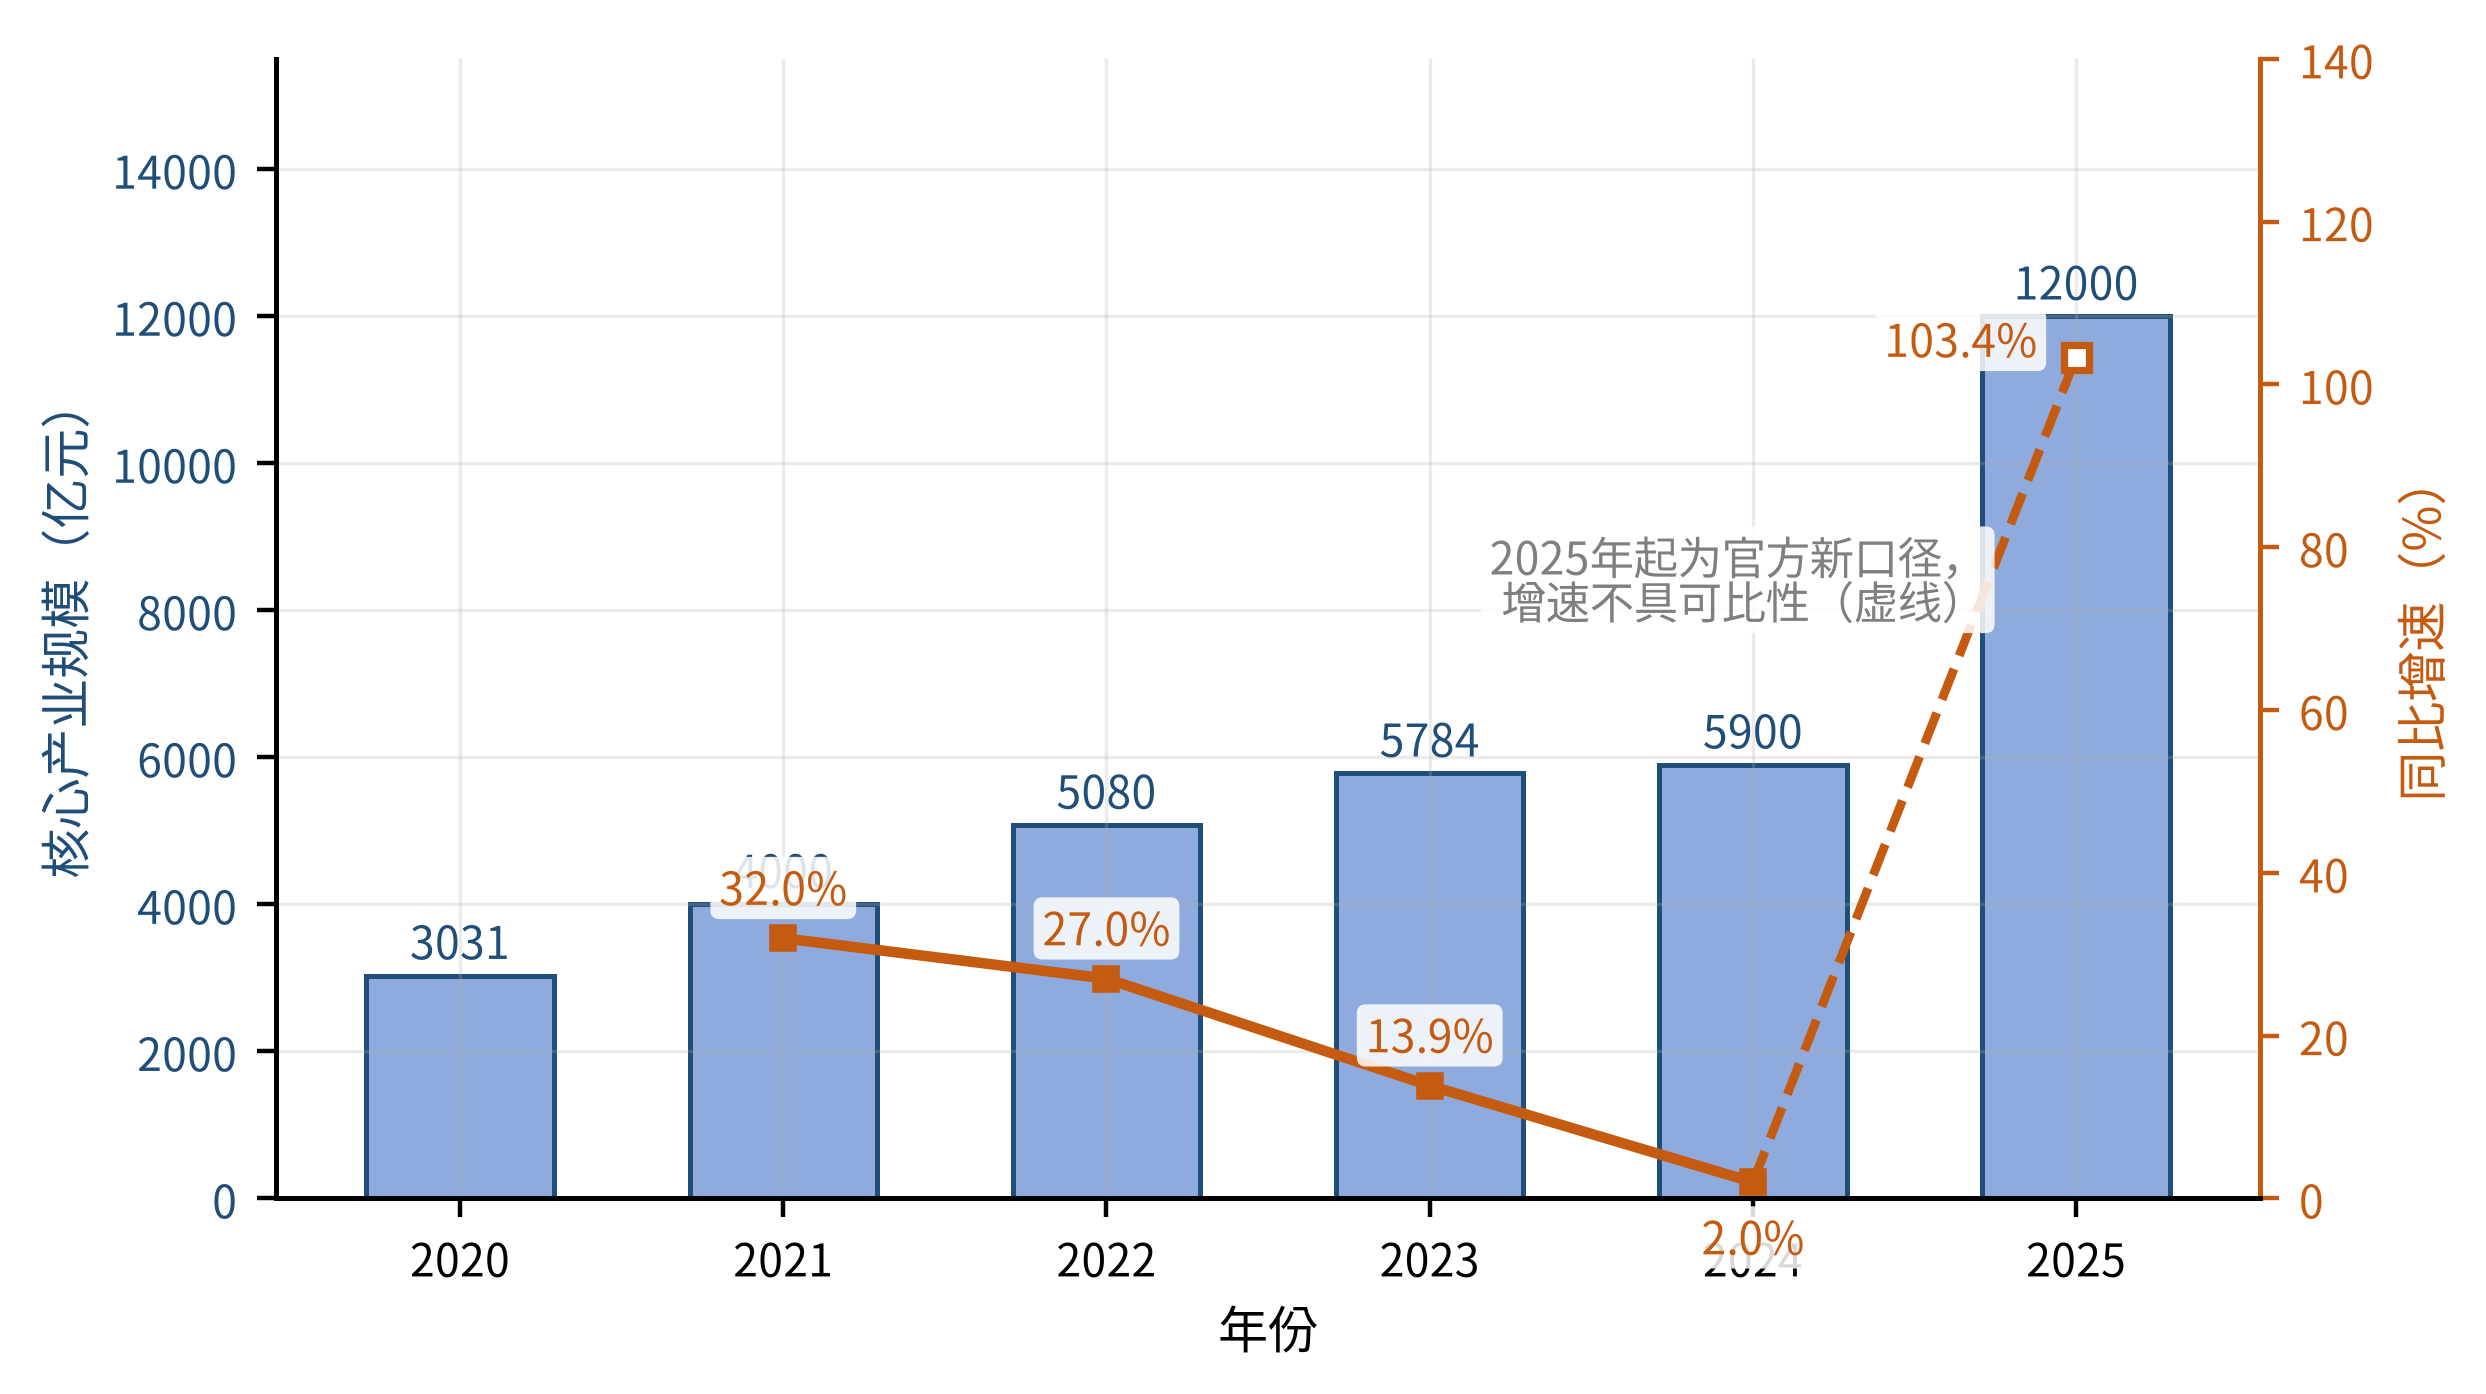
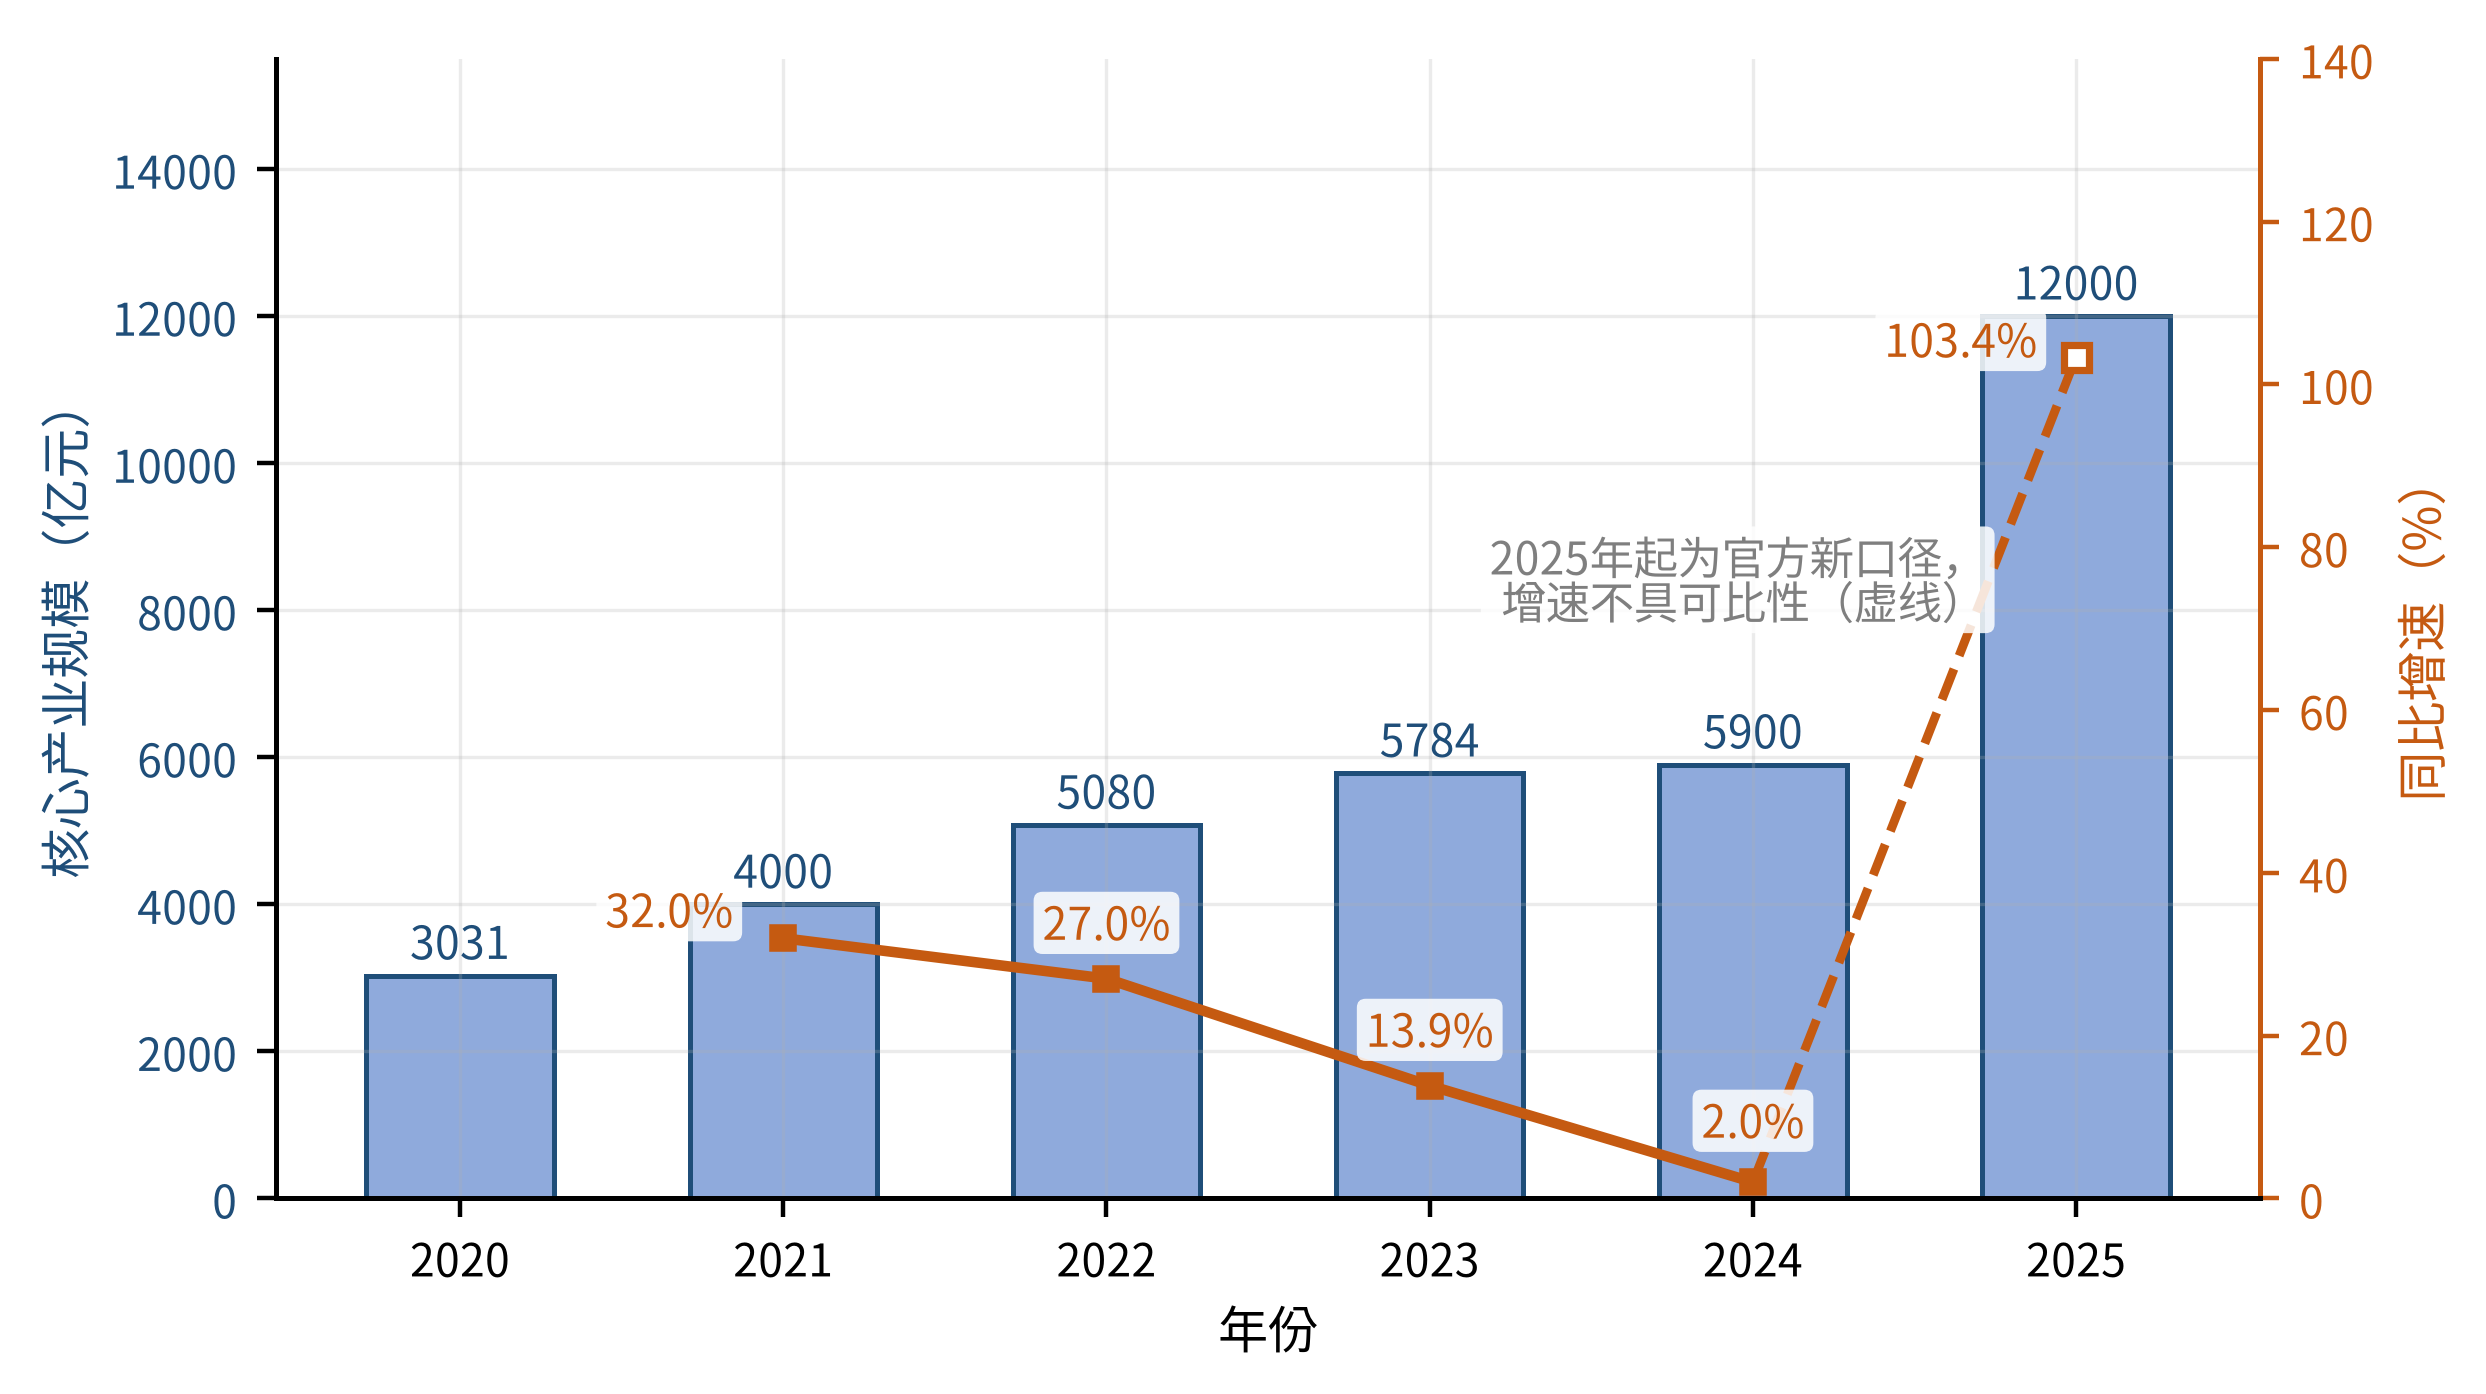
图件生产进行中：figures_a 中期产出快照
Claude-Session: https://claude.ai/code/session_01QzKzGFH9nCcj4dUgUrgzSn

diff --git a/ai-talent-book/figures_a.py b/ai-talent-book/figures_a.py
@@ -85,7 +85,7 @@ def fig2_1():
     ax.annotate('新一代人工智能\n发展规划（2017）', (2016.7, 11800), fontsize=8,
                 color=PAL['gray'], ha='right', va='top', bbox=WBOX)
     ax.axvline(2022.9, color=PAL['gray'], ls=':', lw=1)
-    ax.annotate('大模型浪潮\n（2022年末）', (2022.6, 11800), fontsize=8,
+    ax.annotate('大模型浪潮\n（2022年末）', (2022.6, 10500), fontsize=8,
                 color=PAL['gray'], ha='right', va='top', bbox=WBOX)
     # 末年数值直接标注
     ax.annotate(f'{yc[-1]:.0f}', (xc[-1], yc[-1]), textcoords='offset points',
@@ -123,8 +123,8 @@ def fig3_1():
     ax2.plot(x[5], g[4], marker='s', ms=4.5, mfc='white', mec=PAL['orange'],
              mew=1.3, ls='none')
     for xi, gi, (dx, dy, ha) in zip(x[1:], g,
-                                    [(0, 6, 'center'), (0, 6, 'center'),
-                                     (0, 6, 'center'), (0, -13, 'center'),
+                                    [(-9, 2, 'right'), (0, 7, 'center'),
+                                     (0, 7, 'center'), (0, 8, 'center'),
                                      (-7, 0, 'right')]):
         ax2.annotate(f'{gi:.1f}%', (xi, gi), textcoords='offset points',
                      xytext=(dx, dy), ha=ha, fontsize=8,
@@ -268,9 +268,6 @@ def fig4_1():
     ax2.plot(x, cum, color=PAL['orange'], marker='o', ms=4, lw=1.9)
     ax2.annotate(f'累计 {cum[-1]:.0f} 所', (x[-1], cum[-1]),
                  textcoords='offset points', xytext=(-2, 8), ha='right',
-                 fontsize=8, color=PAL['orange'])
-    ax2.annotate(f'{cum[0]:.0f} 所起步', (x[0], cum[0]),
-                 textcoords='offset points', xytext=(4, 8), ha='left',
                  fontsize=8, color=PAL['orange'])
     ax2.set_ylabel('累计布点数（所）', color=PAL['orange'])
     ax2.set_ylim(0, 700)
